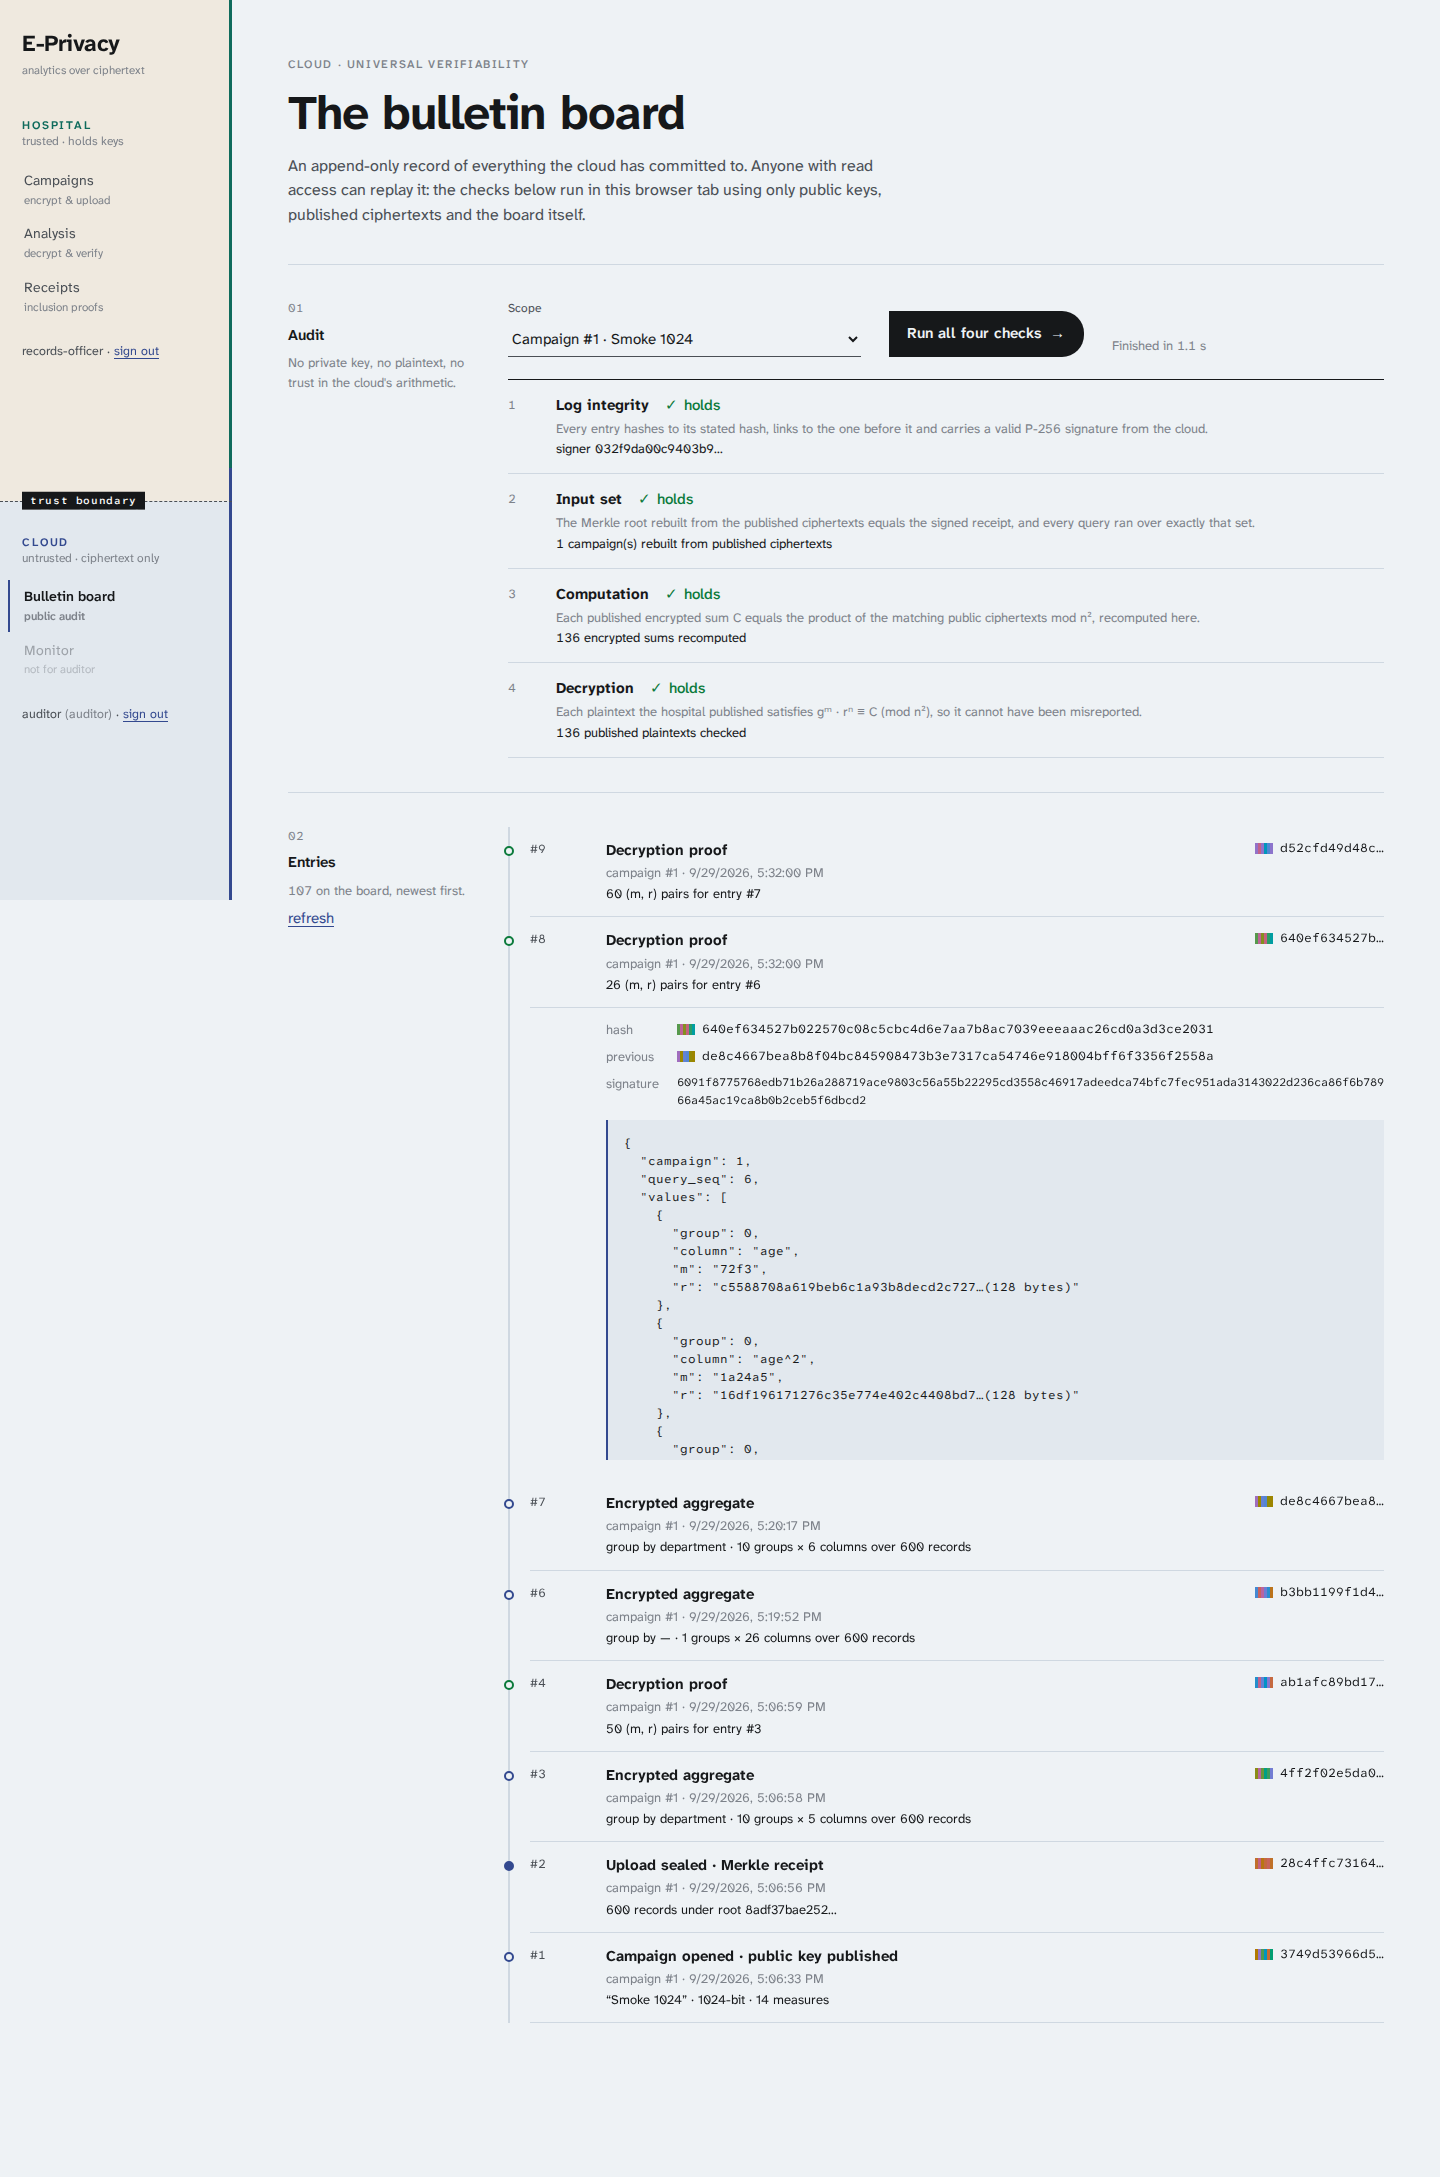
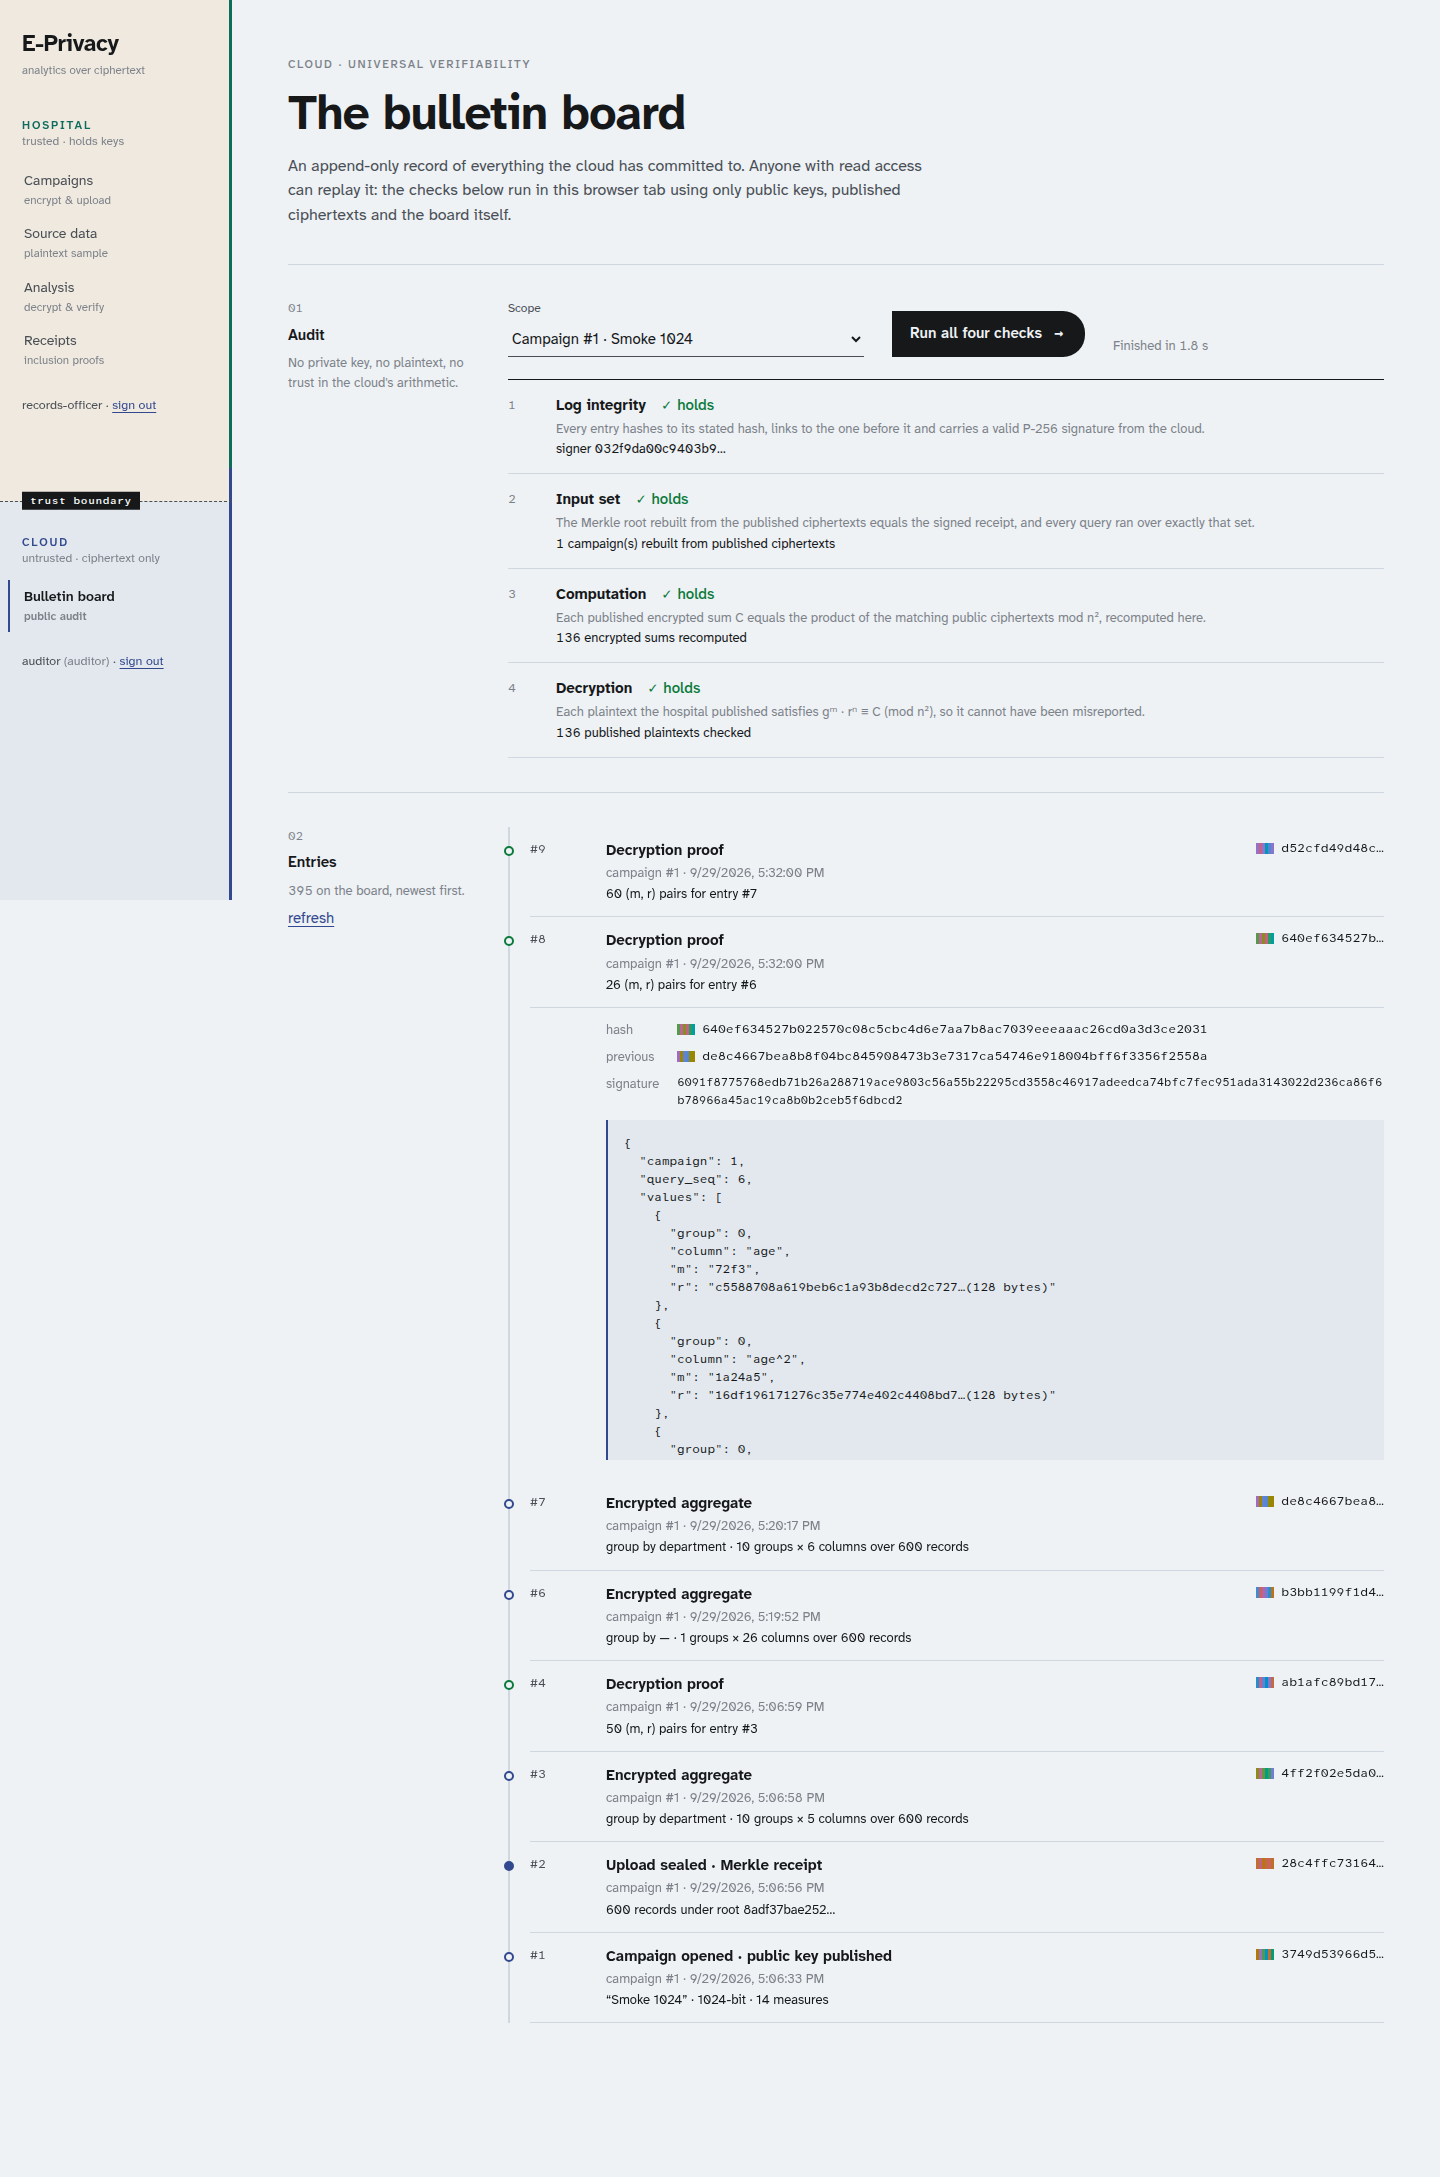
Web: show only the cloud pages the signed-in role can open
Auditors no longer see Monitor and Database in the rail. The README now
notes that both sides can be signed in at once, and the board screenshot
is retaken to match.

diff --git a/Implementation/web/src/App.vue b/Implementation/web/src/App.vue
@@ -59,9 +59,9 @@ async function leave(d) {
       <div class="zone cloudzone">
         <p class="zone-name"><b>Cloud</b> <span>untrusted · ciphertext only</span></p>
         <ul>
-          <li v-for="l in cloudLinks" :key="l.to" :class="{ locked: sessions.cloud && !allowed(l) }">
+          <li v-for="l in cloudLinks.filter((l) => !sessions.cloud || allowed(l))" :key="l.to">
             <RouterLink :to="l.to" :class="{ on: isActive(l.to) }">
-              {{ l.label }}<small>{{ sessions.cloud && !allowed(l) ? 'not for ' + sessions.cloud.role : l.hint }}</small>
+              {{ l.label }}<small>{{ l.hint }}</small>
             </RouterLink>
           </li>
         </ul>
@@ -119,7 +119,6 @@ li a small { font-size: 11.5px; color: var(--muted); }
 li a:hover { color: var(--ink); }
 .trust li a.on { border-left-color: var(--trust-accent); color: var(--ink); font-weight: 600; }
 .cloudzone li a.on { border-left-color: var(--cloud-accent); color: var(--ink); font-weight: 600; }
-li.locked a { opacity: 0.45; }
 
 .who { font-size: 12.5px; color: var(--ink-2); margin-top: 6px; }
 

diff --git a/Implementation/docs/web-frontend.md b/Implementation/docs/web-frontend.md
@@ -8,7 +8,7 @@ Vue 3 single-page app, built by Vite and served by nginx, which also reverse-pro
 | File | Responsibility |
 |---|---|
 | `index.html`, `src/main.js` | entry; Google Fonts (Atkinson Hyperlegible Next and Mono) |
-| `src/App.vue` | the navigation rail split by the trust boundary; page tint per domain |
+| `src/App.vue` | the navigation rail split by the trust boundary; cloud links filtered to the signed-in role; page tint per domain |
 | `src/router.js` | routes, per-domain and per-role guards, page titles |
 | `src/api.js` | two independent sessions (`owner`, `cloud`), fetch wrapper, sign-in/out |
 | `src/theme.css` | design tokens and the shared typographic system (sections, figures, ledger tables, marks, controls) |

diff --git a/Implementation/README.md b/Implementation/README.md
@@ -38,6 +38,9 @@ Sign-ins come from `.env`:
 
 `CLOUD_OWNER_USER` is a service account the hospital agent uses to talk to the cloud; nobody signs in with it.
 
+One browser can be signed in to both sides at once (one hospital session, one cloud session as either auditor or
+admin). An expired session sends you back to that side's sign-in only; the other side stays signed in.
+
 The database starts empty apart from the three cloud accounts. Records only reach it as ciphertext, through a campaign.
 
 ## A walk through
